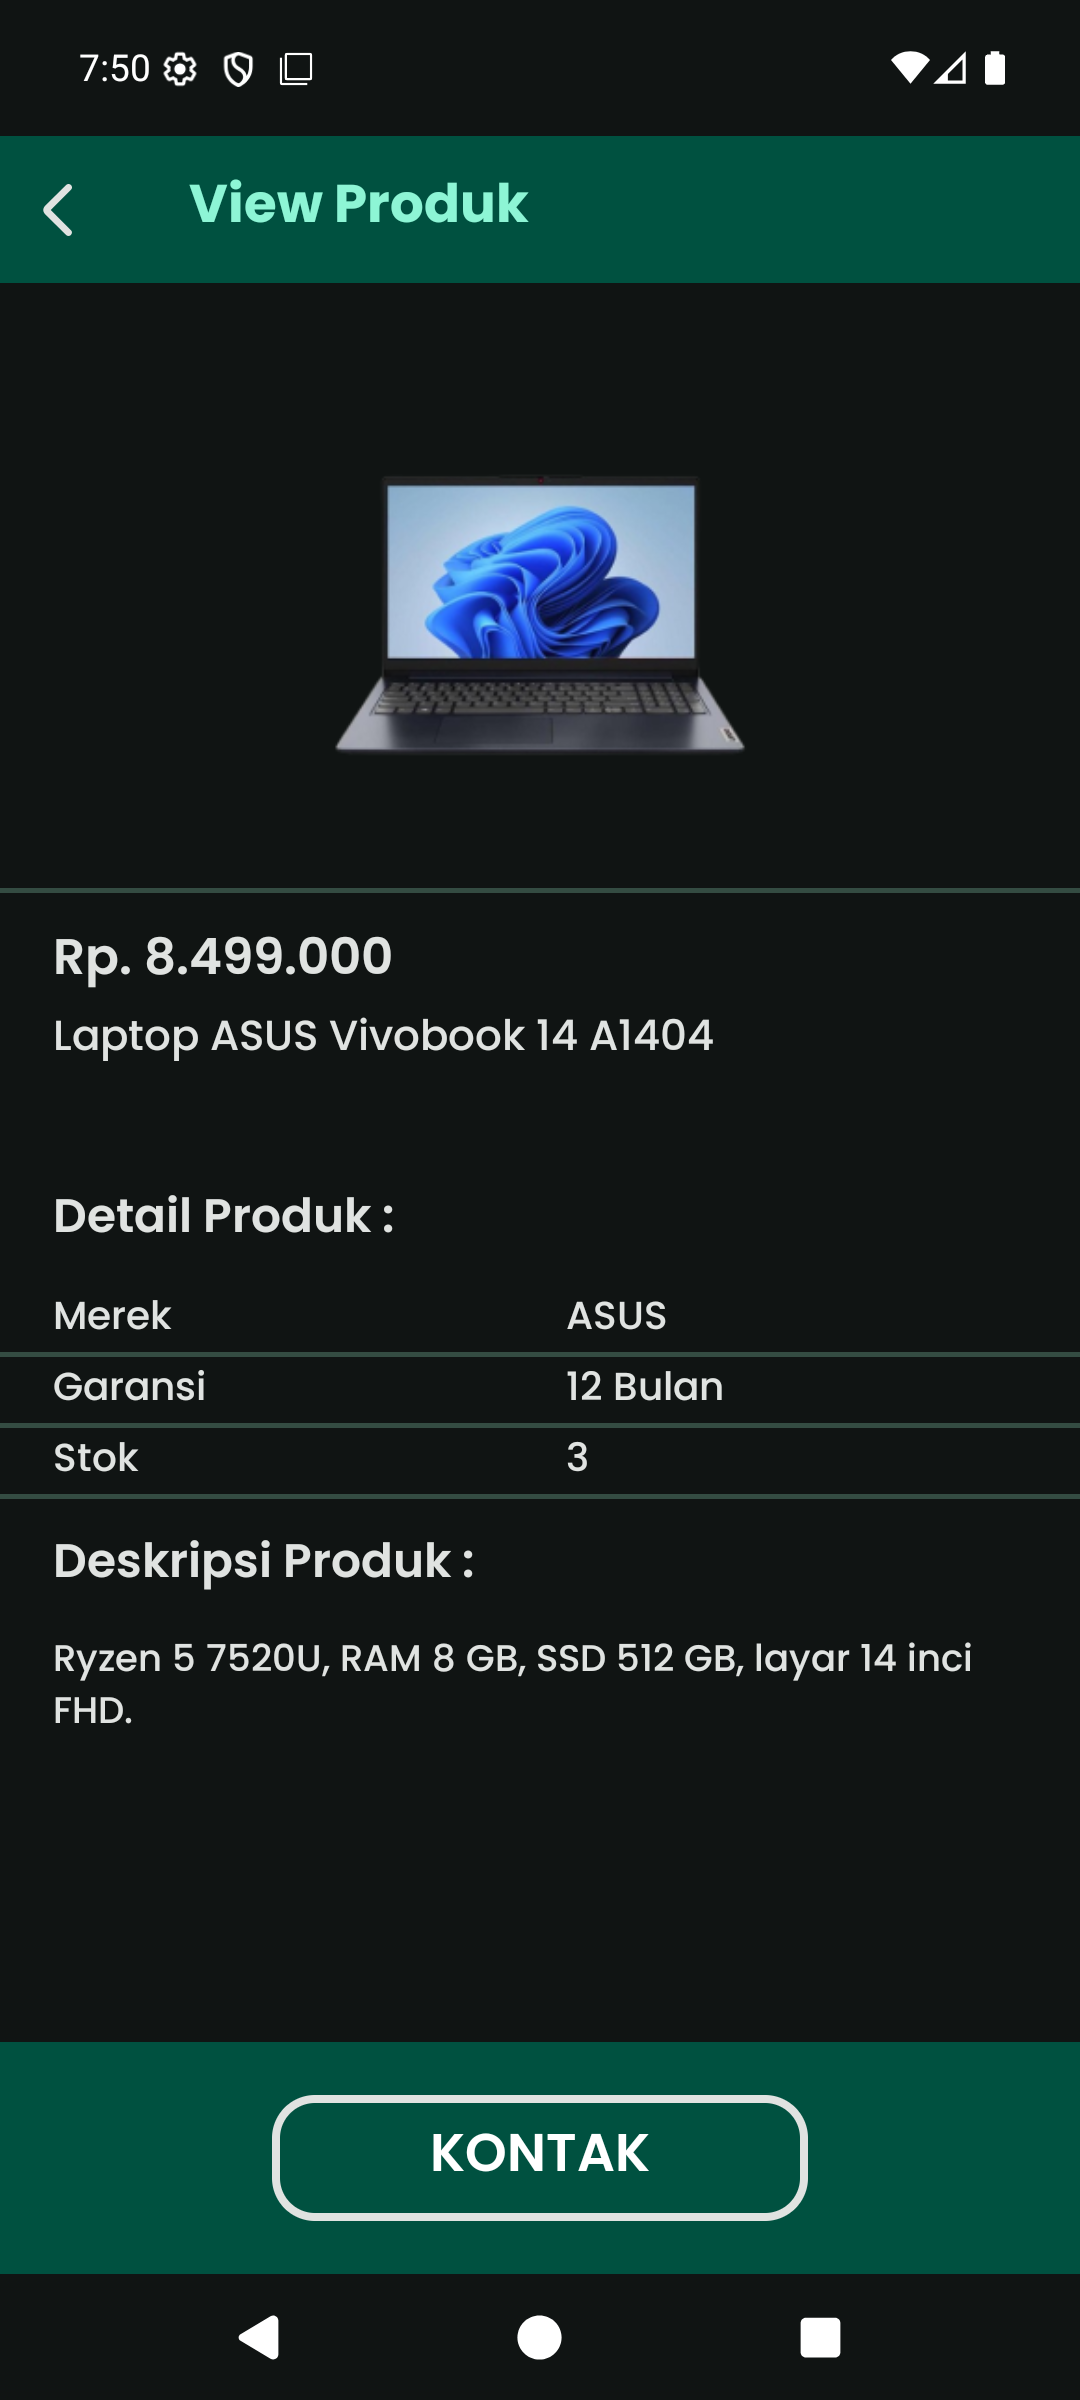
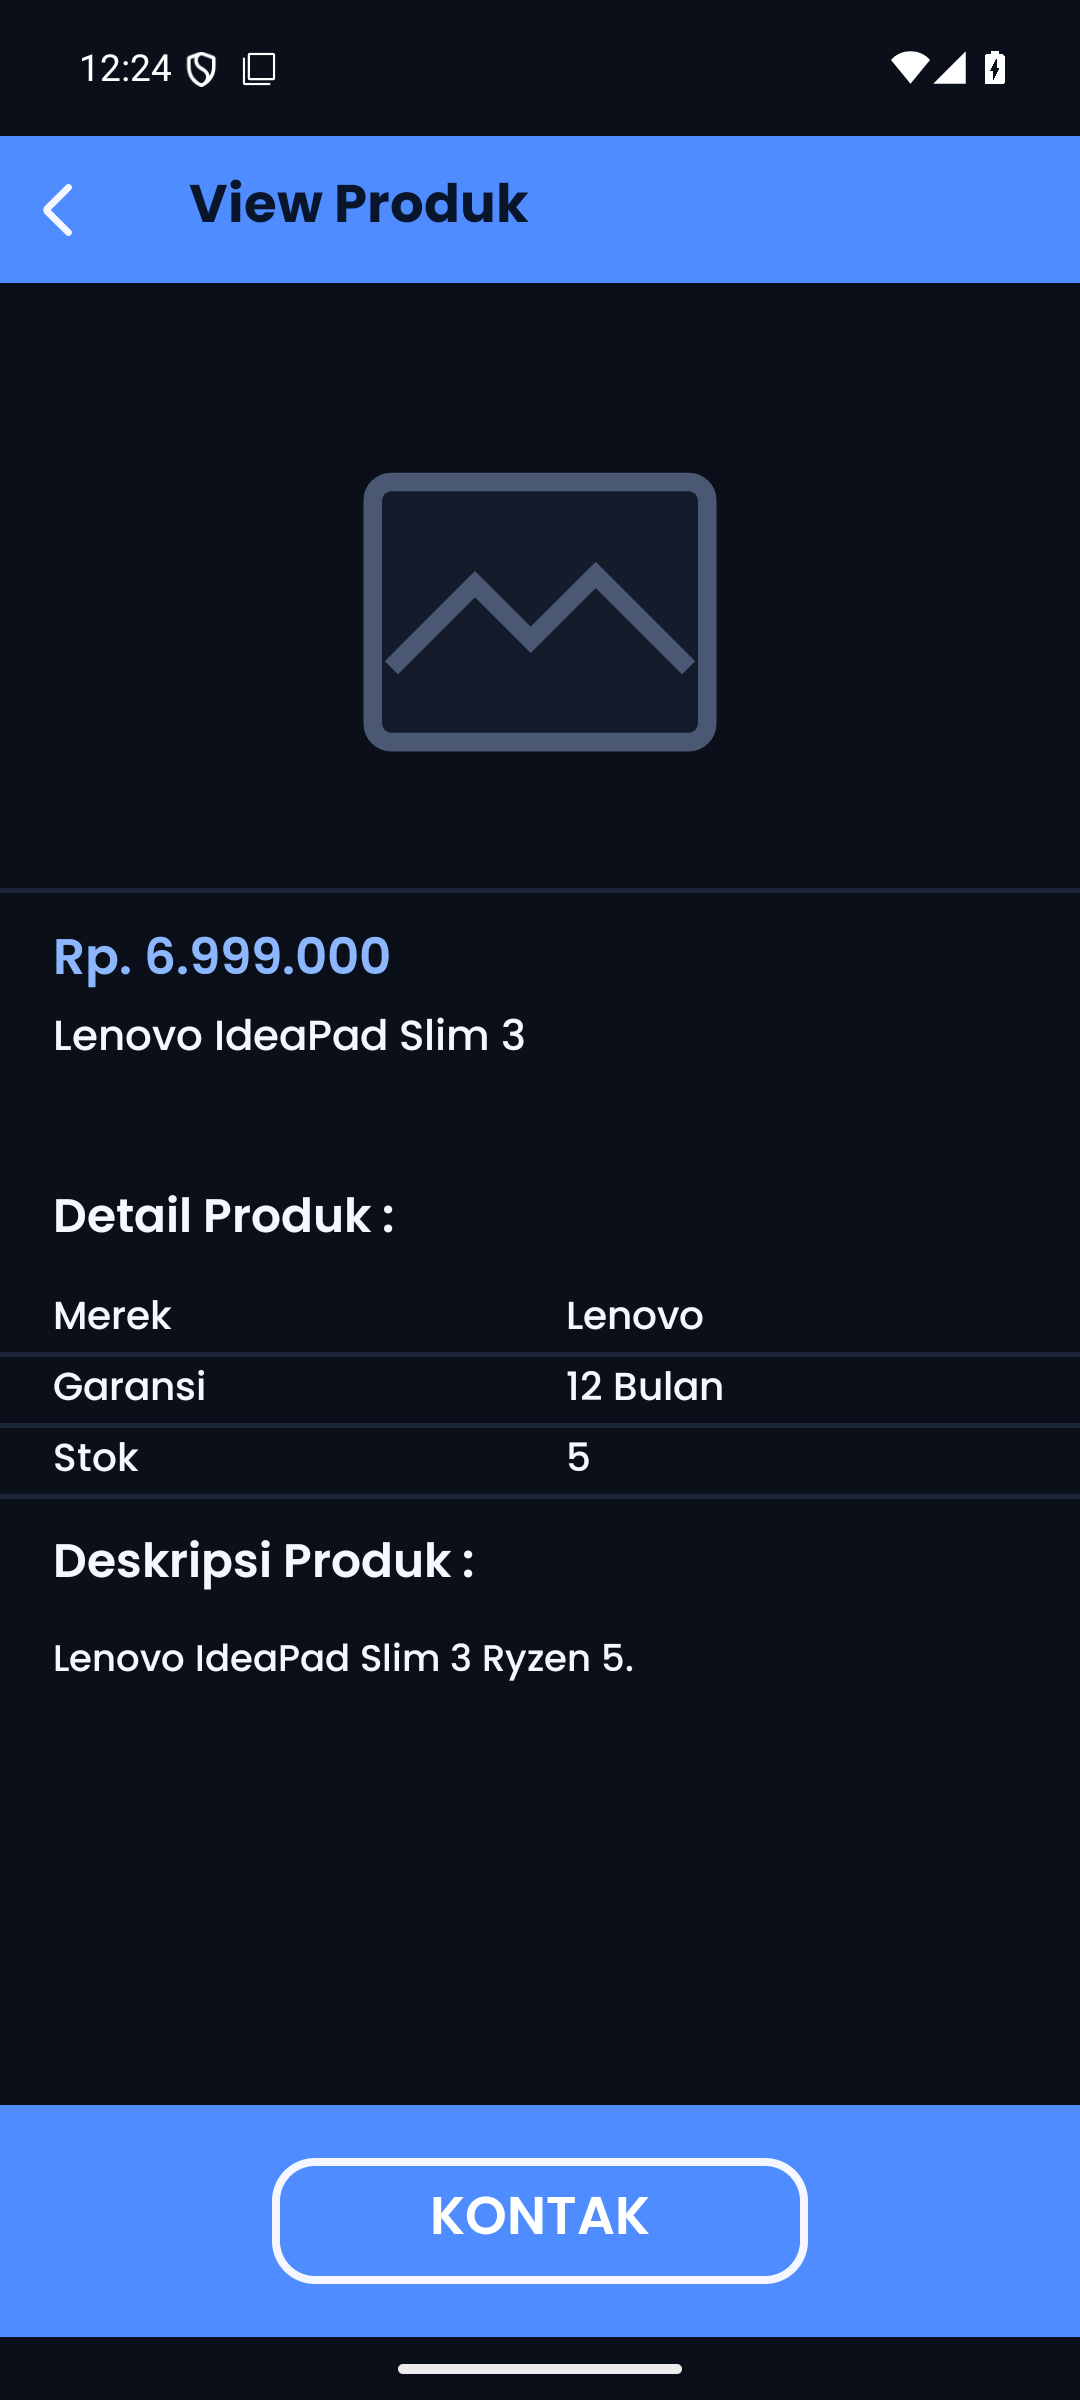
feat: apply Electric Cobalt Dark palette and refresh README/screenshots

diff --git a/app/src/main/java/com/zierch/devicepoint/ui/ViewProdukActivity.java b/app/src/main/java/com/zierch/devicepoint/ui/ViewProdukActivity.java
@@ -9,6 +9,7 @@ import androidx.appcompat.app.AppCompatActivity;
 import androidx.appcompat.widget.Toolbar;
 
 import com.bumptech.glide.Glide;
+import com.zierch.devicepoint.R;
 import com.zierch.devicepoint.Helper;
 import com.zierch.devicepoint.databinding.ActivityViewProdukBinding;
 import com.zierch.devicepoint.SystemBars;
@@ -47,7 +48,10 @@ public class ViewProdukActivity extends AppCompatActivity {
         int stok = (int) objects[6];
         String deskripsi = (String) objects[7];
 
-        Glide.with(this).load(new File(imagePath)).into(binding.image);
+        Glide.with(this).load(new File(imagePath))
+                .placeholder(R.drawable.img_product_placeholder)
+                .error(R.drawable.img_product_placeholder)
+                .into(binding.image);
         binding.image.setContentDescription(namaProduk);
         binding.hargaProduk.setText(Helper.currencyID(hargaProduk));
         binding.namaProduk.setText(namaProduk);

diff --git a/app/src/main/java/com/zierch/devicepoint/ui/admin/FormProduk.java b/app/src/main/java/com/zierch/devicepoint/ui/admin/FormProduk.java
@@ -11,6 +11,7 @@ import androidx.appcompat.app.AppCompatActivity;
 import androidx.appcompat.widget.Toolbar;
 
 import com.bumptech.glide.Glide;
+import com.zierch.devicepoint.R;
 import com.zierch.devicepoint.ImageStore;
 import com.zierch.devicepoint.SQLiteHelper;
 import com.zierch.devicepoint.databinding.FormTambahProdukBinding;
@@ -229,7 +230,10 @@ public class FormProduk extends AppCompatActivity {
                 binding.cam.setVisibility(View.GONE);
 
                 // Untuk gambar
-                Glide.with(this).load(new File(imagePath)).into(binding.image);
+                Glide.with(this).load(new File(imagePath))
+                        .placeholder(R.drawable.img_product_placeholder)
+                        .error(R.drawable.img_product_placeholder)
+                        .into(binding.image);
             }
         } else {
             Toast.makeText(this, "Produk tidak ditemukan!", Toast.LENGTH_SHORT).show();

diff --git a/app/src/main/java/com/zierch/devicepoint/ListProdukAdapter.java b/app/src/main/java/com/zierch/devicepoint/ListProdukAdapter.java
@@ -54,6 +54,8 @@ public class ListProdukAdapter extends RecyclerView.Adapter<ListProdukAdapter.Vi
 
         Glide.with(holder.itemView.getContext())
                 .load(new File(imagePath))
+                .placeholder(R.drawable.img_product_placeholder)
+                .error(R.drawable.img_product_placeholder)
                 .into(holder.binding.imageProduk1);
         holder.binding.namaProduk.setText(namaProduk);
         holder.binding.hargaProduk.setText(Helper.currencyID(hargaProduk));

diff --git a/README.md b/README.md
@@ -116,7 +116,7 @@ Butuh JDK 17 atau lebih baru. APK hasil build ada di
 gradlew.bat test        # Windows
 ```
 
-15 test unit (Robolectric, tanpa perlu emulator) mencakup:
+18 test unit (Robolectric, tanpa perlu emulator) dan 1 test instrumented mencakup:
 
 - login akun seed dan akun baru, penolakan password salah, akun baru bukan admin
 - username duplikat diabaikan, password tersimpan sebagai hash
